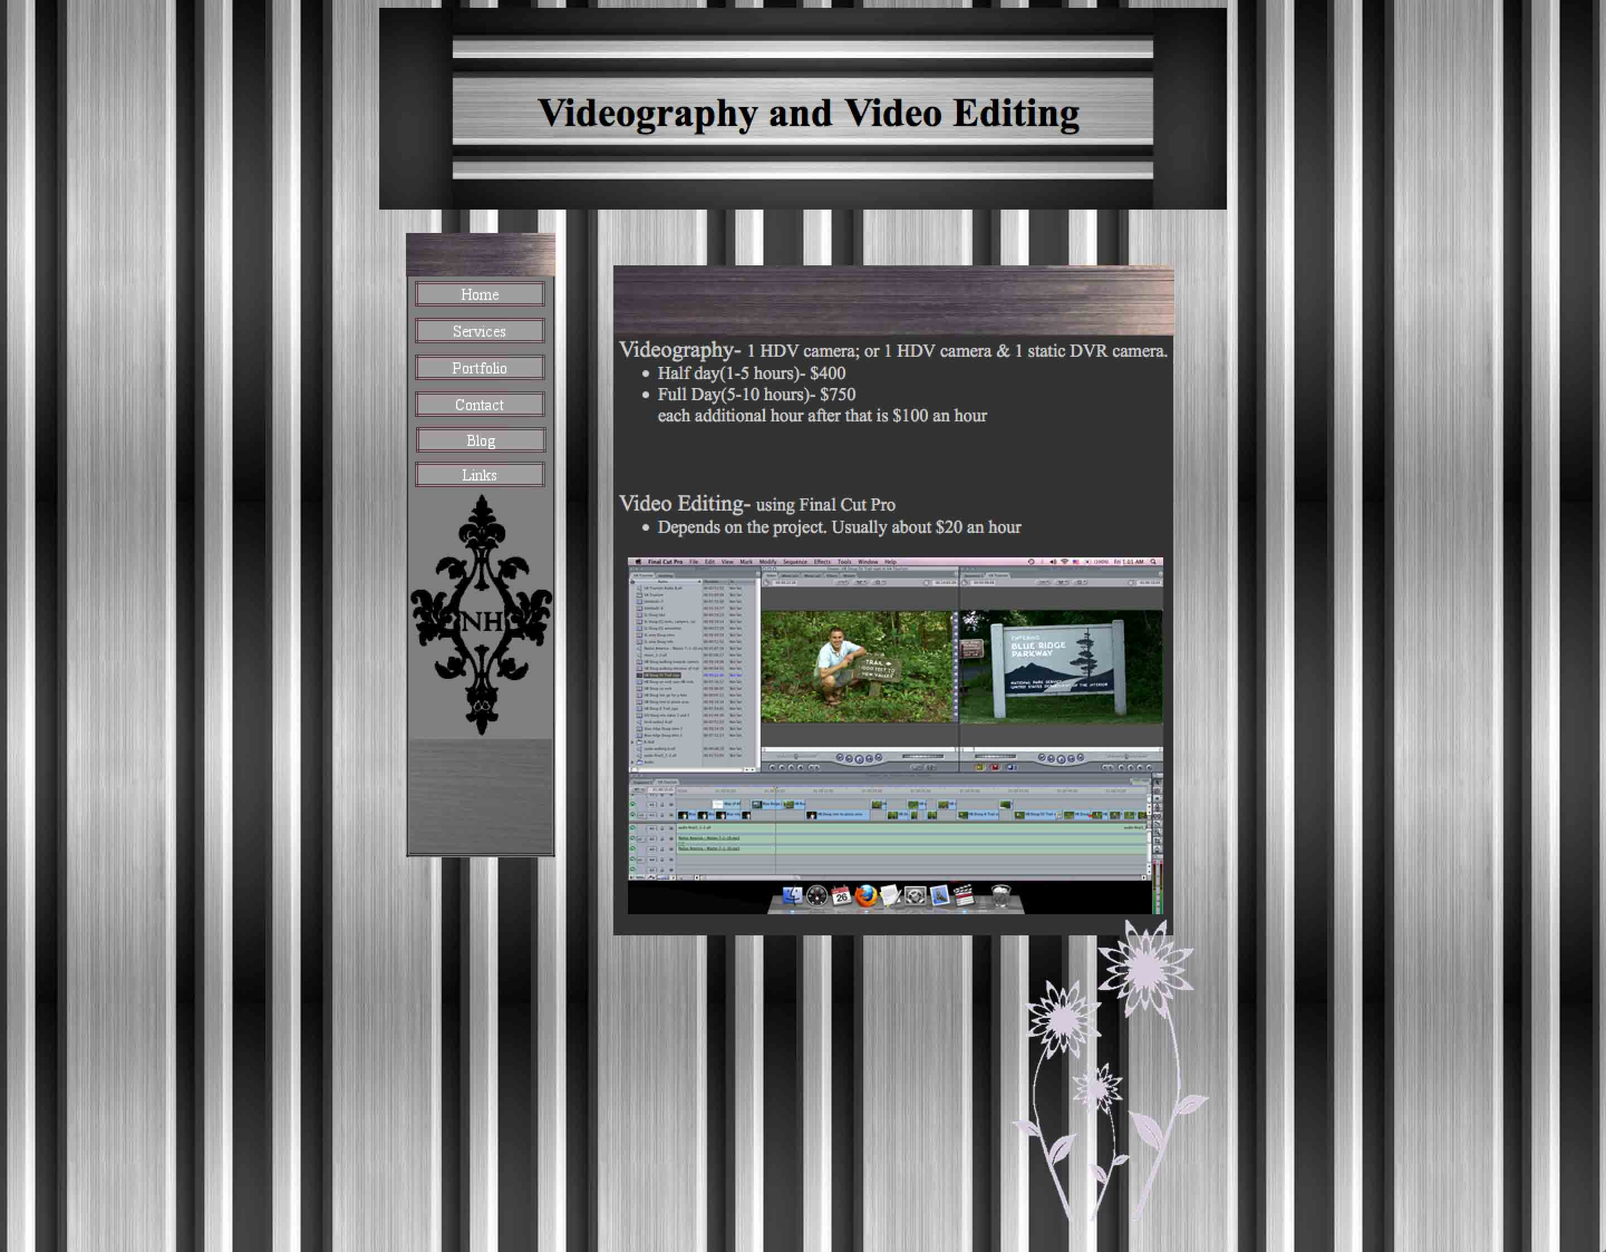
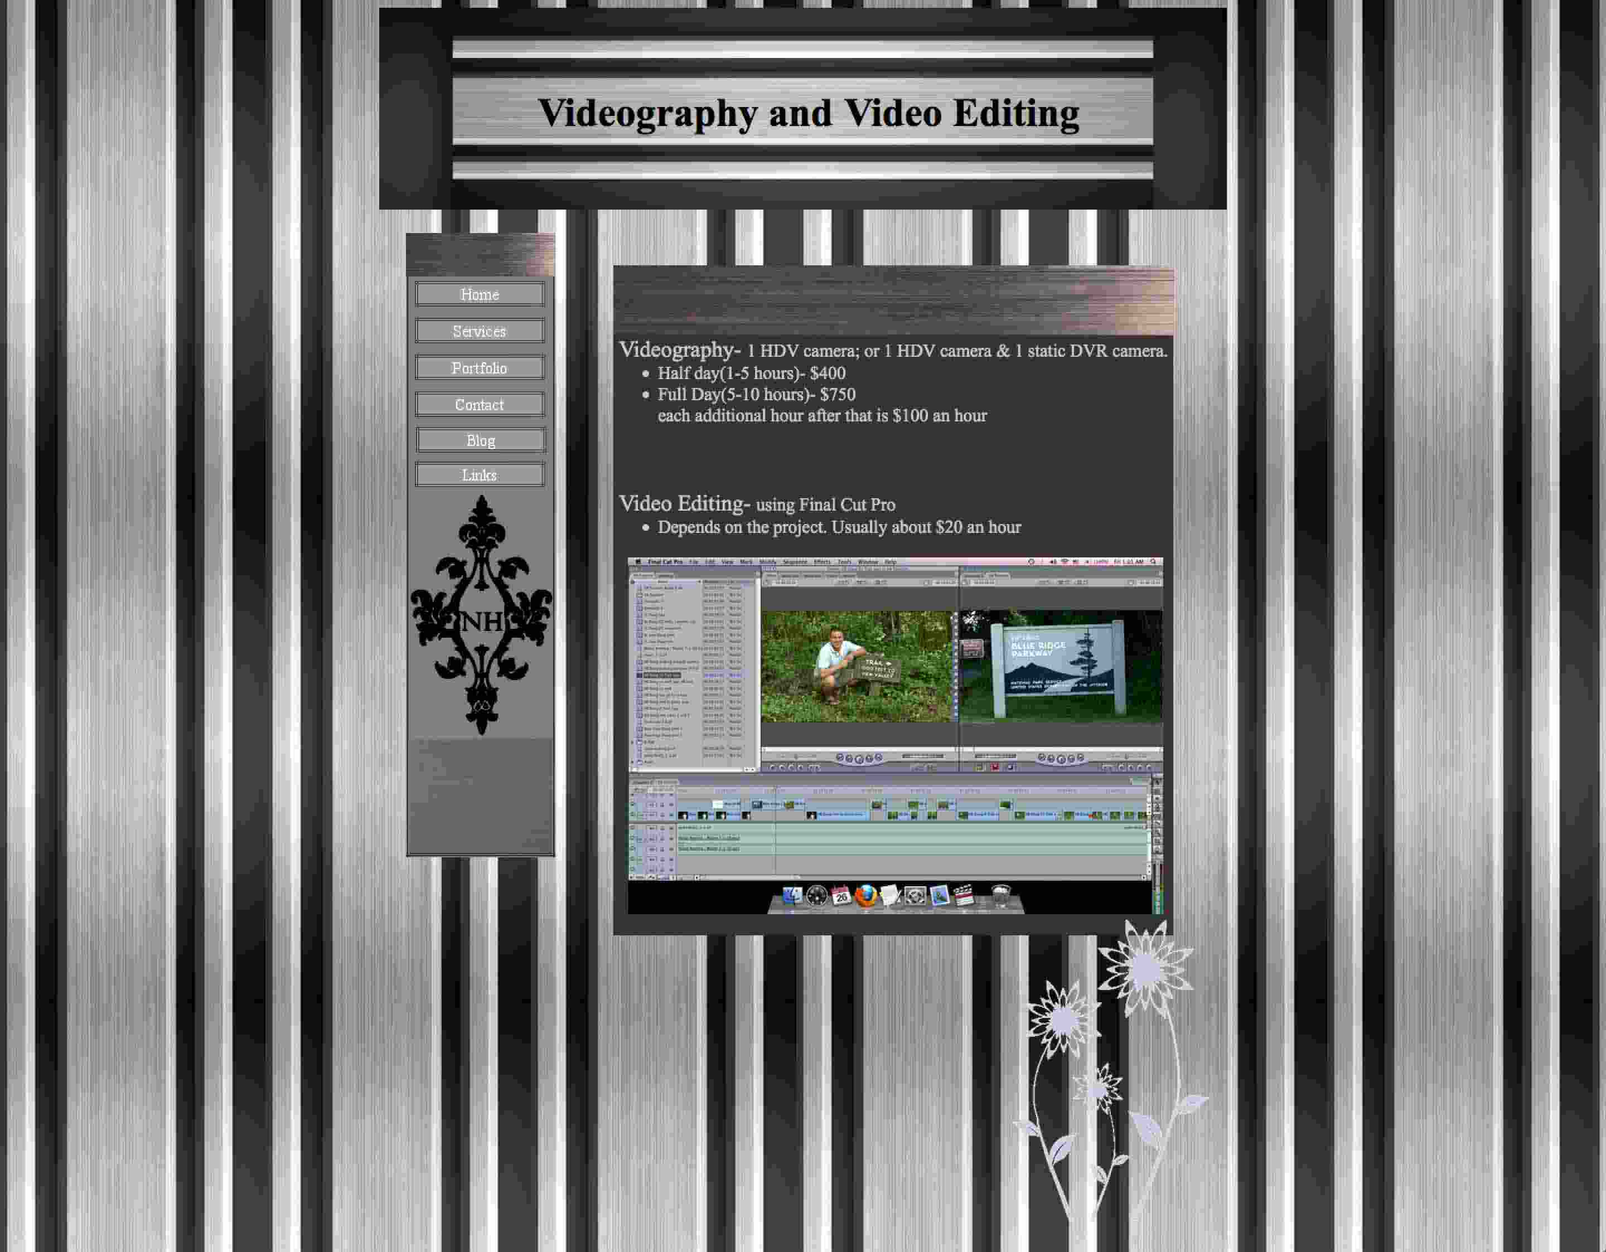
reduced image sizes for faster website loading, added JavaScript Jungle to portfolio

diff --git a/src/portfolioData.js b/src/portfolioData.js
@@ -1,36 +1,41 @@
 const portfolioData = [
     {
         id: 1,
+        compTitle: "<h2 tabindex='0'>JavaScript Jungle (June 2020)</h2>",
+        rollInfo: "<p>JavaScript Jungle is a newsletter I'm working on creating a newsletter that explores the lesser-known JavaScript terms. I'm also working on a website for it, which will mostly serve as a way to subscribe to the newsletter.</p>"
+    },
+    {
+        id: 2,
         compTitle: "<h2 tabindex='0'>TechNatalie (Created 2017, Redone in React May 2020)</h2>",
         rollInfo: "<p>This website was originally created from scratch using HTML, CSS, JavaScript and jQuery, with a mobile first approach. After learning React, I decided to redo the site using React, JavaScript/JSX, jQuery, HTML, CSS, Babel, React-Tag-Cloud, RandomColor, and React-Animate-On-Scroll using Animations.css. I also created the backgrounds and logo.</p>"
     },
     {
-        id: 2,
+        id: 3,
         compTitle: "<h2 tabindex='0'>iNoticed (October 2019 - Present)</h2>",
-        rollInfo: "<p id='gallery' style='text-align:left;'>This is my personal project about kindness, being valued, and a new way of dating. The idea is that when you are in public and you notice someone doing something nice, or having a bad day, or you're attracted to someone, you hand them a card. There are specific cards to hand out depending on the situation. <a class='pic-overlay' href='images/Portfolio/iNoticed/iNoticed_Card_Demo.gif'><img class='iNoticed-img' src='images/Portfolio/iNoticed/iNoticed_Card_Demo.gif' alt='iNoticed Home Page Demo'></a> The dating section is a full-blown dating app - you hand a card to someone you'd like to date and they visit the website to check out your profile and message you. It makes it easier to approach people. <br /> I created every aspect of the site using JavaScript, PHP, HTML, CSS, SCSS, jQuery, Bootstrap, particles.js, XML, AJAX, MySQL/SQL, Git, Bash, Python, and zippopotam.us.<br /> This web app is still a work in progress, but feel free to <a class='ext-link' href='https://inoticed.org' target='_blank' rel='noopener noreferrer'>visit it here</a>.<br /> iNoticed's repo has been added to <a class='ext-link' href='https://github.com/The-Natalie' target='_blank' rel='noopener noreferrer'>Github here</a>.</p>"
+        rollInfo: "<p id='gallery' style='text-align:left;'>iNoticed is my personal project about kindness, being valued, and a new way of dating. The idea is that when you are in public and you notice someone doing something nice, or having a bad day, or you're attracted to someone, you hand them a card. There are specific cards to hand out depending on the situation. <a class='pic-overlay' href='images/Portfolio/iNoticed/iNoticed_Card_Demo.gif'><img class='iNoticed-img' src='images/Portfolio/iNoticed/iNoticed_Card_Demo.gif' alt='iNoticed Home Page Demo'></a> The dating section is a full-blown dating app - you hand a card to someone you'd like to date and they visit the website to check out your profile and message you. It makes it easier to approach people. <br /> I created every aspect of the site using JavaScript, PHP, HTML, CSS, SCSS, jQuery, Bootstrap, particles.js, XML, AJAX, MySQL/SQL, Git, Bash, Python, and zippopotam.us.<br /> This web app is still a work in progress, but feel free to <a class='ext-link' href='https://inoticed.org' target='_blank' rel='noopener noreferrer'>visit it here</a>.<br /> iNoticed's repo has been added to <a class='ext-link' href='https://github.com/The-Natalie' target='_blank' rel='noopener noreferrer'>Github here</a>.</p>"
     },
     {
-        id: 3,
+        id: 4,
         compTitle: "<div class='bitlathe'> <h2 tabindex='0'>BitLathe (June 2017 - October 2019)</h2>",
         rollInfo: "<p>BitLathe was a small business (it closed in October 2019) that provided custom web applications and content management services for clients. There were multiple websites and web apps that were already created when I joined BitLathe, and I was asked to update and maintain them. So, the majority of my work was tweaking old code, but I also added a lot of my own code, too. I also had a few projects I wrote from scratch.<br /> Unfortunately, the content of the projects I worked on while at BitLathe is confidential, so only descriptions of my projects can be shared. Here are a few of them:</p> <ul id='gallery' style='list-style: none;'> <li><a href='images/Portfolio/Bitlathe/RI_Demo.gif'><img src='images/Portfolio/Bitlathe/RI_Demo.gif' alt='Retirement Interactive Demo' /></a> <b><a class='ext-link' href='http://www.retirementinteractive.com/' target='_blank' rel='noopener noreferrer'>Riversource Retirement Interactive</a></b> is the largest web app I've worked on. I helped update graphs and information, create new pages, and implement new designs requested by the client. While my boss created the application a couple years ago, I've put a lot of time and new code into much of it. The majority of my JavaScript experience came from working on this application.<br /> Languages used: JavaScript, jQuery, HTML, CSS(SCSS) </li>  <br />  <li><a href='images/Portfolio/Bitlathe/CMID_Home.png'><img src='images/Portfolio/Bitlathe/CMID_Home.png' alt='Twitter and Instagram feeds on home page' /></a><b>Instagram Feed Widget -</b> A client wanted an Instagram feed on their home page that matched the Twitter feed that was already there. Unlike most social media platforms, Instagram doesn't provide a way to embed a feed(or multiple posts), they only provide embedded code for a single specified post. So, after explaining to the client how to retrieve their Instagram access token, I used the plugin Instafeed.js to create the widget. Everything looked fine, except the images and text weren't posting. Turns out the client's firewall was blocking Instagram, which made Instafeed.js useless. So, my boss wrote a server script that calls the 12 most recent Instagram posts to the API, and puts it in a file on the server every 10 minutes. I had to write new code that would parse through that information and output the appropriate HTML for the widget. I also updated the CSS to match the Twitter feed.<br /> Languages used: HTML, CSS, JavaScript, jQuery, Mustache.js, Instafeed.js, Instagram's API</li> <br /> <li><a href='images/Portfolio/Bitlathe/CMID_Popup.png'><img src='images/Portfolio/Bitlathe/CMID_Popup.png' alt='File not available pop-up' /></a><b>Turn Off Links with Pop-up -</b> A client's website had multiple files that were updated quarterly, but sometimes the files would expire before they were able to update them. Instead of removing the links and code for hundreds of files only to have to rewrite them a few days later, a flag was created within in the links so that the link was disabled and a message would pop-up to let the visitor know that the file is being updated. If the 'data-available' attribute within the link HTML code equaled '0', the link was disabled and a pop-up message was created, which came from the 'data-message' attribute. As a backup, if the 'data-message' attribute was left blank, there was a default message included in the JavaScript code. If the 'data-available' attribute equaled '0', the link worked normally. The image to the left is an example of the pop-up message. <br /> Languages used: HTML, JavaScript, and jQuery</li> <br /> <li><a href='images/Portfolio/Bitlathe/CMID_Video_page.gif'><img id='video-gif' src='images/Portfolio/Bitlathe/CMID_Video_page.gif' alt='Video page example when play button is clicked' /></a><b>Video Landing Page -</b> A client wanted a video page that contained all the elements and information about the video, including a transcript and other relevant files. When the page loaded, they wanted a still image from the video and a pronounced play button in the middle. They also wanted a block of text to obstruct part of the video, but when the play button is clicked, they wanted the block of text to slide down below the video. A rough draft of this page already existed, but I still had A LOT of changes to make, including totally customizing the video controls. This project involved extensive coding in HTML, CSS, JavaScript, jQuery and a lot of research on embedded video players. To the left is an animated GIF of the video page showing how the block of code slides down when the play button is clicked.<br /> Languages/software used: HTML, CSS, SCSS, JavaScript, jQuery, Bootstrap, Mozilla's Full Screen API, Photoshop, jPlayer</li> </ul> </div>"
     },
     {
-        id: 4,
+        id: 5,
         compTitle: "<div class='hdh'> <h2 tabindex='0'>HDH Associates (2012 - March 2017)</h2>",
         rollInfo: "<p>HDH has 3 companies within itself and they have 3 websites. These websites were already created when I was asked to update and maintain them. I started maintaining them using Dreamweaver and then eventually redesigned and updated them by writing code.</p> <ul id='gallery'> <li><a href='images/Portfolio/HDH/Home.jpg'><img src='images/Portfolio/HDH/Home.jpg' width='120' alt='HDH Associates Home page' /></a></li> <li><a href='images/Portfolio/HDH/AboutUs.jpg'><img src='images/Portfolio/HDH/AboutUs.jpg' width='120' alt='HDH Associates About Us page' /></a></li> <li><a href='images/Portfolio/HDH/RelatedLinks.jpg'><img src='images/Portfolio/HDH/RelatedLinks.jpg' width='120' alt='HDH Associates Related Links page' /></a></li> <li><a href='images/Portfolio/HDH/TechBESTHome.jpg'><img src='images/Portfolio/HDH/TechBESTHome.jpg' width='120' alt='The Home page for HDH Technical and BEST' /></a></li> <li><a href='images/Portfolio/HDH/BESTCalendar.jpg'><img src='images/Portfolio/HDH/BESTCalendar.jpg' width='120' alt='Example of the class calendar for BEST' /></a></li> </ul> </div>"
     },
     {
-        id: 5,
+        id: 6,
         compTitle: "<div class='svpa'> <h2 tabindex='0'>The Staunton Chapter of the Virginia Production Alliance (2012 - 2013)</h2>",
         rollInfo: "<p>I made this website for a non-profit organization by using Wordpress and PHP. I started with a templete and then greatly modified it by adding code and utilizing widgets.</p> <ul id='gallery'> <li><a href='images/Portfolio/SVPA/Home.jpg'><img src='images/Portfolio/SVPA/Home.jpg' width='120' alt='The Staunton Chapter of the Virginia Production Alliance Home page' /></a></li> <li><a href='images/Portfolio/SVPA/Contact.jpg'><img src='images/Portfolio/SVPA/Contact.jpg' width='120' alt='The Staunton Chapter of the Virginia Production Alliance Contact page' /></a></li> <li><a href='images/Portfolio/SVPA/Links.jpg'><img src='images/Portfolio/SVPA/Links.jpg' width='120' alt='The Staunton Chapter of the Virginia Production Alliance Links page' /></a></li> <li><a href='images/Portfolio/SVPA/Calendar.jpg'><img src='images/Portfolio/SVPA/Calendar.jpg' width='120' alt='The Staunton Chapter of the Virginia Production Alliance Calendar page and widget' /></a></li> <li><a href='images/Portfolio/SVPA/Message_Board.jpg'><img src='images/Portfolio/SVPA/Message_Board.jpg' width='120' alt='The Staunton Chapter of the Virginia Production Alliance Message Board' /></a></li> </ul> </div>"
     },
     {
-        id: 6,
+        id: 7,
         compTitle: "<div class='kateri'> <h2 tabindex='0'>Kateri Productions (2004 - 2013)</h2>",
         rollInfo: "<p>This is the first website I made. It was a portfolio and business website for my video production services. I originally designed it using Yahoo Website Builder, then switched to Dreamweaver after gaining more web designer/developer skills.</p> <ul id='gallery'> <li><a href='images/Portfolio/KateriProductions/Home.jpg'><img src='images/Portfolio/KateriProductions/Home.jpg' width='120' alt='Kateri Productions Home page' /></a></li> <li><a href='images/Portfolio/KateriProductions/About_Me.jpg'><img src='images/Portfolio/KateriProductions/About_Me.jpg' width='120' alt='Kateri Productions About Me page' /></a></li> <li><a href='images/Portfolio/KateriProductions/Videography_and_Video_Editing.jpg'><img src='images/Portfolio/KateriProductions/Videography_and_Video_Editing.jpg' width='120' alt='Kateri Productions Videography and Video Editing page' /></a></li> <li><a href='images/Portfolio/KateriProductions/Last_Wish.jpg'><img src='images/Portfolio/KateriProductions/Last_Wish.jpg' width='120' alt='Kateri Productions Last Wish page' /></a></li> </ul> </div>"
     },
     {
-        id: 7,
+        id: 8,
         compTitle: "<div class='video'> <h2 tabindex='0'>Video Production and Graphic Design Demo Reel</h2>",
         rollInfo: "<div class='demo'> <iframe width='560' height='315' src='https://www.youtube.com/embed/hLUQf1UloyA' frameborder='0' allowfullscreen></iframe> </div> </div>"
     }

diff --git a/build/index.html b/build/index.html
@@ -1,1 +1,1 @@
-<!doctype html><html lang="en"><head><script async src="https://www.googletagmanager.com/gtag/js?id=G-B70Y67FCV8"></script><script>function gtag(){dataLayer.push(arguments)}window.dataLayer=window.dataLayer||[],gtag("js",new Date),gtag("config","G-B70Y67FCV8")</script><meta charset="utf-8"/><link href="https://fonts.googleapis.com/css?family=Lobster+Two:700italic,400" rel="stylesheet"><link href="https://fonts.googleapis.com/css2?family=Princess+Sofia&display=swap" rel="stylesheet"><link rel="stylesheet" href="main.css"><link rel="stylesheet" href="https://cdnjs.cloudflare.com/ajax/libs/animate.css/3.5.2/animate.min.css"><link rel="apple-touch-icon" sizes="180x180" href="/apple-touch-icon.png"><link rel="icon" type="image/png" sizes="32x32" href="/favicon-32x32.png"><link rel="icon" type="image/png" sizes="16x16" href="/favicon-16x16.png"><link rel="manifest" href="/site.webmanifest"><meta name="viewport" content="width=device-width,initial-scale=1"/><meta name="theme-color" content="#000000"/><link rel="apple-touch-icon" href="/logo192.png"/><link rel="manifest" href="/manifest.json"/><title>Natalie | Web Developer</title></head><body><script src="index.pack.js"></script><div id="root"></div><script>!function(e){function t(t){for(var n,l,a=t[0],i=t[1],f=t[2],p=0,s=[];p<a.length;p++)l=a[p],Object.prototype.hasOwnProperty.call(o,l)&&o[l]&&s.push(o[l][0]),o[l]=0;for(n in i)Object.prototype.hasOwnProperty.call(i,n)&&(e[n]=i[n]);for(c&&c(t);s.length;)s.shift()();return u.push.apply(u,f||[]),r()}function r(){for(var e,t=0;t<u.length;t++){for(var r=u[t],n=!0,a=1;a<r.length;a++){var i=r[a];0!==o[i]&&(n=!1)}n&&(u.splice(t--,1),e=l(l.s=r[0]))}return e}var n={},o={1:0},u=[];function l(t){if(n[t])return n[t].exports;var r=n[t]={i:t,l:!1,exports:{}};return e[t].call(r.exports,r,r.exports,l),r.l=!0,r.exports}l.m=e,l.c=n,l.d=function(e,t,r){l.o(e,t)||Object.defineProperty(e,t,{enumerable:!0,get:r})},l.r=function(e){"undefined"!=typeof Symbol&&Symbol.toStringTag&&Object.defineProperty(e,Symbol.toStringTag,{value:"Module"}),Object.defineProperty(e,"__esModule",{value:!0})},l.t=function(e,t){if(1&t&&(e=l(e)),8&t)return e;if(4&t&&"object"==typeof e&&e&&e.__esModule)return e;var r=Object.create(null);if(l.r(r),Object.defineProperty(r,"default",{enumerable:!0,value:e}),2&t&&"string"!=typeof e)for(var n in e)l.d(r,n,function(t){return e[t]}.bind(null,n));return r},l.n=function(e){var t=e&&e.__esModule?function(){return e.default}:function(){return e};return l.d(t,"a",t),t},l.o=function(e,t){return Object.prototype.hasOwnProperty.call(e,t)},l.p="/";var a=this.webpackJsonptechnatalie=this.webpackJsonptechnatalie||[],i=a.push.bind(a);a.push=t,a=a.slice();for(var f=0;f<a.length;f++)t(a[f]);var c=i;r()}([])</script><script src="/static/js/2.79216c4f.chunk.js"></script><script src="/static/js/main.550e9604.chunk.js"></script></body></html>
+<!doctype html><html lang="en"><head><script async src="https://www.googletagmanager.com/gtag/js?id=G-B70Y67FCV8"></script><script>function gtag(){dataLayer.push(arguments)}window.dataLayer=window.dataLayer||[],gtag("js",new Date),gtag("config","G-B70Y67FCV8")</script><meta charset="utf-8"/><link href="https://fonts.googleapis.com/css?family=Lobster+Two:700italic,400" rel="stylesheet"><link href="https://fonts.googleapis.com/css2?family=Princess+Sofia&display=swap" rel="stylesheet"><link rel="stylesheet" href="main.css"><link rel="stylesheet" href="https://cdnjs.cloudflare.com/ajax/libs/animate.css/3.5.2/animate.min.css"><link rel="apple-touch-icon" sizes="180x180" href="/apple-touch-icon.png"><link rel="icon" type="image/png" sizes="32x32" href="/favicon-32x32.png"><link rel="icon" type="image/png" sizes="16x16" href="/favicon-16x16.png"><link rel="manifest" href="/site.webmanifest"><meta name="viewport" content="width=device-width,initial-scale=1"/><meta name="theme-color" content="#000000"/><link rel="apple-touch-icon" href="/logo192.png"/><link rel="manifest" href="/manifest.json"/><title>Natalie | Web Developer</title></head><body><script src="index.pack.js"></script><div id="root"></div><script>!function(e){function t(t){for(var n,l,a=t[0],i=t[1],f=t[2],p=0,s=[];p<a.length;p++)l=a[p],Object.prototype.hasOwnProperty.call(o,l)&&o[l]&&s.push(o[l][0]),o[l]=0;for(n in i)Object.prototype.hasOwnProperty.call(i,n)&&(e[n]=i[n]);for(c&&c(t);s.length;)s.shift()();return u.push.apply(u,f||[]),r()}function r(){for(var e,t=0;t<u.length;t++){for(var r=u[t],n=!0,a=1;a<r.length;a++){var i=r[a];0!==o[i]&&(n=!1)}n&&(u.splice(t--,1),e=l(l.s=r[0]))}return e}var n={},o={1:0},u=[];function l(t){if(n[t])return n[t].exports;var r=n[t]={i:t,l:!1,exports:{}};return e[t].call(r.exports,r,r.exports,l),r.l=!0,r.exports}l.m=e,l.c=n,l.d=function(e,t,r){l.o(e,t)||Object.defineProperty(e,t,{enumerable:!0,get:r})},l.r=function(e){"undefined"!=typeof Symbol&&Symbol.toStringTag&&Object.defineProperty(e,Symbol.toStringTag,{value:"Module"}),Object.defineProperty(e,"__esModule",{value:!0})},l.t=function(e,t){if(1&t&&(e=l(e)),8&t)return e;if(4&t&&"object"==typeof e&&e&&e.__esModule)return e;var r=Object.create(null);if(l.r(r),Object.defineProperty(r,"default",{enumerable:!0,value:e}),2&t&&"string"!=typeof e)for(var n in e)l.d(r,n,function(t){return e[t]}.bind(null,n));return r},l.n=function(e){var t=e&&e.__esModule?function(){return e.default}:function(){return e};return l.d(t,"a",t),t},l.o=function(e,t){return Object.prototype.hasOwnProperty.call(e,t)},l.p="/";var a=this.webpackJsonptechnatalie=this.webpackJsonptechnatalie||[],i=a.push.bind(a);a.push=t,a=a.slice();for(var f=0;f<a.length;f++)t(a[f]);var c=i;r()}([])</script><script src="/static/js/2.86e5503b.chunk.js"></script><script src="/static/js/main.79cba308.chunk.js"></script></body></html>

diff --git a/build/service-worker.js b/build/service-worker.js
@@ -14,7 +14,7 @@
 importScripts("https://storage.googleapis.com/workbox-cdn/releases/4.3.1/workbox-sw.js");
 
 importScripts(
-  "/precache-manifest.a48bdef164d23cebc22e0626aa37f114.js"
+  "/precache-manifest.51188160fb13b684105547da6ab801ae.js"
 );
 
 self.addEventListener('message', (event) => {

diff --git a/README.md b/README.md
@@ -1,68 +1,1 @@
-This project was bootstrapped with [Create React App](https://github.com/facebook/create-react-app).
-
-## Available Scripts
-
-In the project directory, you can run:
-
-### `npm start`
-
-Runs the app in the development mode.<br />
-Open [http://localhost:3000](http://localhost:3000) to view it in the browser.
-
-The page will reload if you make edits.<br />
-You will also see any lint errors in the console.
-
-### `npm test`
-
-Launches the test runner in the interactive watch mode.<br />
-See the section about [running tests](https://facebook.github.io/create-react-app/docs/running-tests) for more information.
-
-### `npm run build`
-
-Builds the app for production to the `build` folder.<br />
-It correctly bundles React in production mode and optimizes the build for the best performance.
-
-The build is minified and the filenames include the hashes.<br />
-Your app is ready to be deployed!
-
-See the section about [deployment](https://facebook.github.io/create-react-app/docs/deployment) for more information.
-
-### `npm run eject`
-
-**Note: this is a one-way operation. Once you `eject`, you can’t go back!**
-
-If you aren’t satisfied with the build tool and configuration choices, you can `eject` at any time. This command will remove the single build dependency from your project.
-
-Instead, it will copy all the configuration files and the transitive dependencies (webpack, Babel, ESLint, etc) right into your project so you have full control over them. All of the commands except `eject` will still work, but they will point to the copied scripts so you can tweak them. At this point you’re on your own.
-
-You don’t have to ever use `eject`. The curated feature set is suitable for small and middle deployments, and you shouldn’t feel obligated to use this feature. However we understand that this tool wouldn’t be useful if you couldn’t customize it when you are ready for it.
-
-## Learn More
-
-You can learn more in the [Create React App documentation](https://facebook.github.io/create-react-app/docs/getting-started).
-
-To learn React, check out the [React documentation](https://reactjs.org/).
-
-### Code Splitting
-
-This section has moved here: https://facebook.github.io/create-react-app/docs/code-splitting
-
-### Analyzing the Bundle Size
-
-This section has moved here: https://facebook.github.io/create-react-app/docs/analyzing-the-bundle-size
-
-### Making a Progressive Web App
-
-This section has moved here: https://facebook.github.io/create-react-app/docs/making-a-progressive-web-app
-
-### Advanced Configuration
-
-This section has moved here: https://facebook.github.io/create-react-app/docs/advanced-configuration
-
-### Deployment
-
-This section has moved here: https://facebook.github.io/create-react-app/docs/deployment
-
-### `npm run build` fails to minify
-
-This section has moved here: https://facebook.github.io/create-react-app/docs/troubleshooting#npm-run-build-fails-to-minify
+This website was originally created from scratch using HTML, CSS, JavaScript and jQuery, with a mobile first approach. After learning React, I decided to redo the site using React, JavaScript/JSX, jQuery, HTML, CSS, Babel, React-Tag-Cloud, RandomColor, and React-Animate-On-Scroll using Animations.css.
